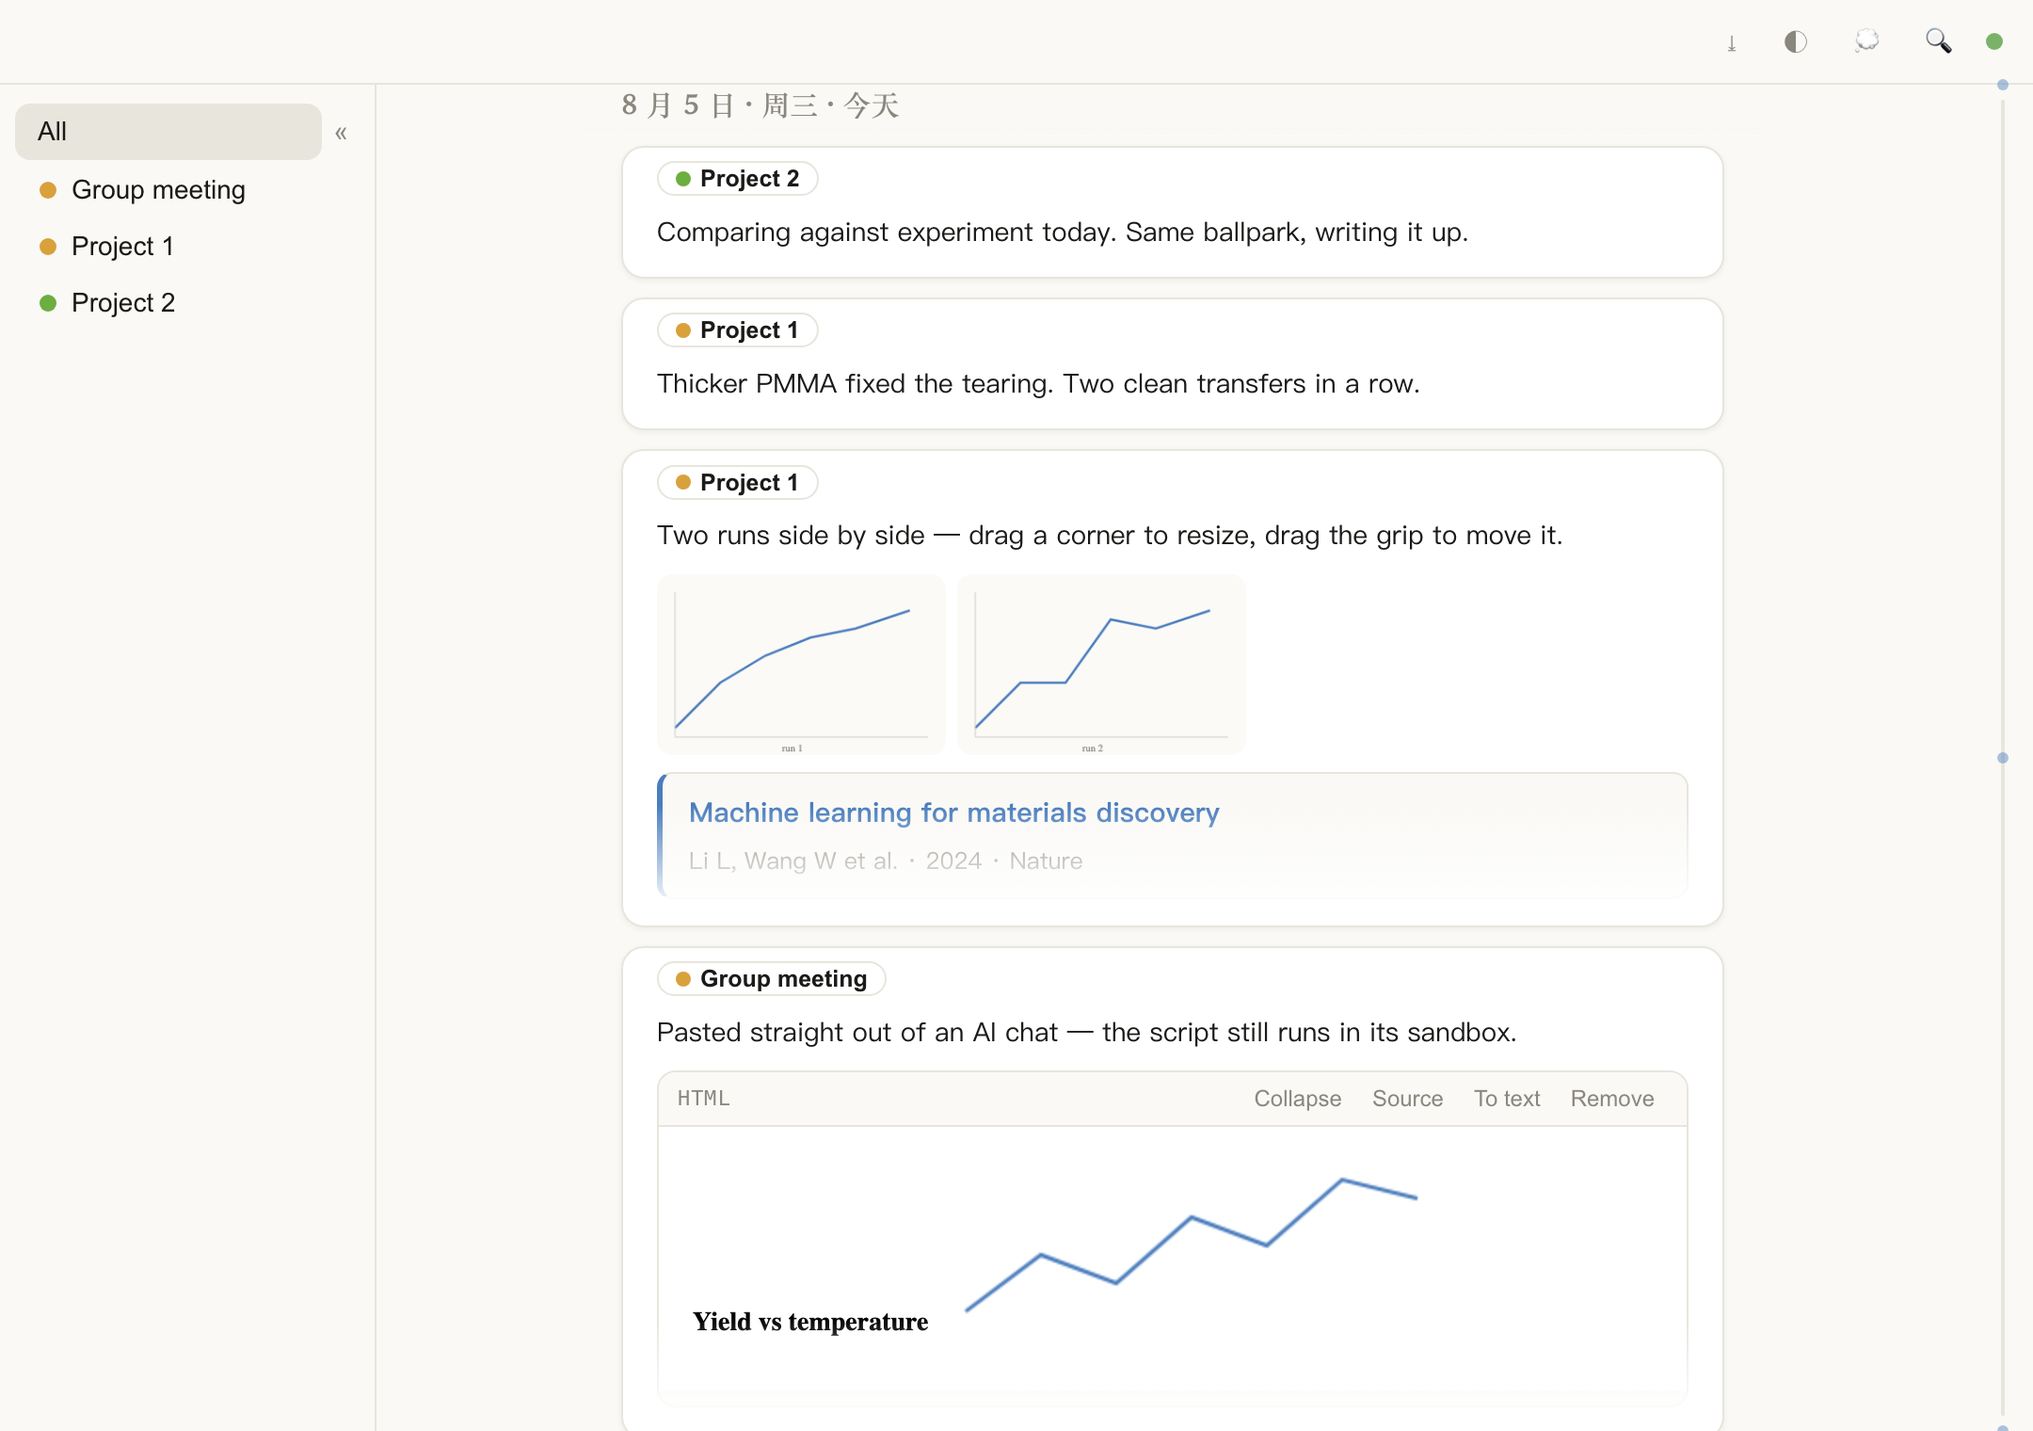
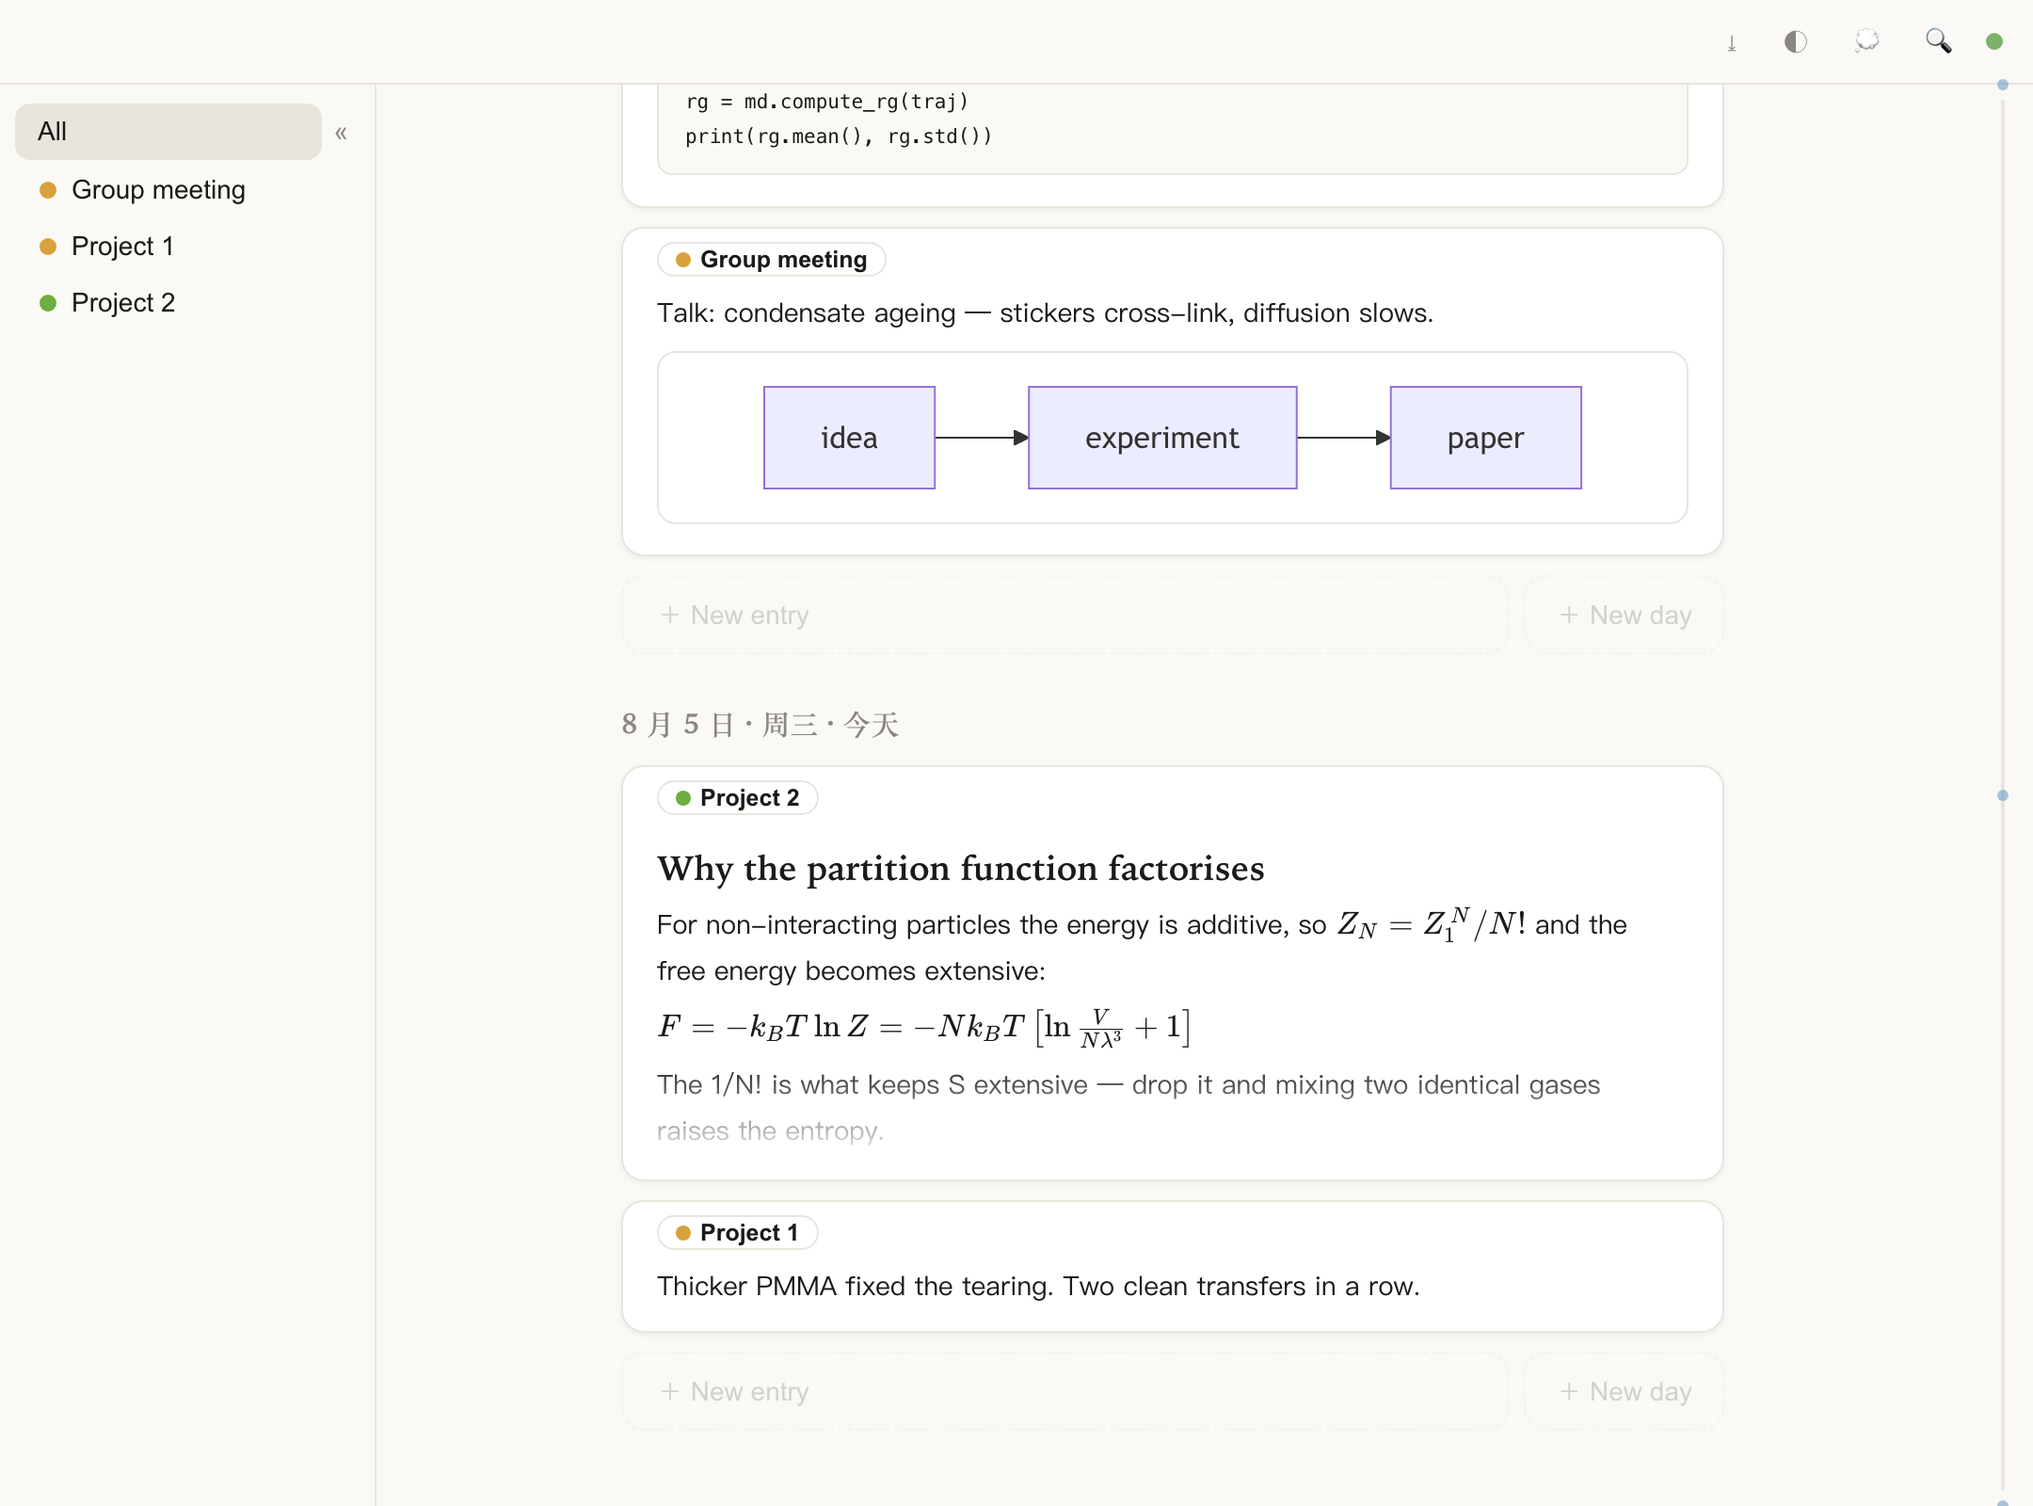
fix: note-only days stay visible; block maths renders; sidebar gains + and a colour wheel
- A day with a note but no cards never came back from /api/entries, so the note
  looked deleted although it was safely in the database. The day query now unions
  days that have a note; the client keeps such days when the last card is deleted
  and reads today's note instead of hardcoding an empty one.
- $$…$$ was silently broken: the extension's default regex reads it as an empty
  $ $ pair, so display equations leaked out as raw LaTeX. Both forms now match, and
  the inline form no longer swallows text like 'costs $5 and $7'.
- Sidebar: a + at the bottom creates a task, and the fixed ten swatches are replaced
  by a colour wheel — hue around, saturation toward the centre, a lightness slider
  and a hex field.
- Sample note rewritten as a statistical-mechanics entry so the screenshots show
  real formulas.

diff --git a/web/src/components/ColorWheel.tsx b/web/src/components/ColorWheel.tsx
@@ -1,0 +1,74 @@
+import { useRef, useState } from 'react'
+
+// 圆形调色盘：色相绕一圈，越靠圆心越淡。亮度用下面的细长条，也可以直接输 #rrggbb。
+// 盘面是两层 CSS 渐变叠出来的，取色靠极坐标算，不需要 canvas 或额外依赖。
+
+function hslToHex(h: number, s: number, l: number) {
+  const a = (s * Math.min(l, 1 - l)) / 100
+  const f = (n: number) => {
+    const k = (n + h / 30) % 12
+    const c = l / 100 - a * Math.max(-1, Math.min(k - 3, 9 - k, 1))
+    return Math.round(255 * c).toString(16).padStart(2, '0')
+  }
+  return `#${f(0)}${f(8)}${f(4)}`
+}
+
+export function ColorWheel({ value, onPick, onClose }: {
+  value: string
+  onPick: (hex: string) => void
+  onClose: () => void
+}) {
+  const [light, setLight] = useState(50)
+  const [hex, setHex] = useState(value)
+  const wheel = useRef<HTMLDivElement>(null)
+
+  function pickAt(e: React.PointerEvent) {
+    const r = wheel.current!.getBoundingClientRect()
+    const x = e.clientX - r.left - r.width / 2
+    const y = e.clientY - r.top - r.height / 2
+    const radius = r.width / 2
+    const dist = Math.min(Math.hypot(x, y) / radius, 1)
+    const hue = (Math.atan2(y, x) * 180) / Math.PI + 90
+    const c = hslToHex((hue + 360) % 360, Math.round(dist * 100), light)
+    setHex(c)
+    onPick(c)
+  }
+
+  return (
+    <div className="wheel-pop" onMouseLeave={onClose}>
+      <div className="wheel" ref={wheel}
+        onPointerDown={pickAt}
+        onPointerMove={e => { if (e.buttons) pickAt(e) }}
+        style={{ filter: `brightness(${(light / 50).toFixed(2)})` }} />
+
+      <input className="wheel-light" type="range" min={15} max={85} value={light}
+        title="Lightness"
+        onChange={e => {
+          const l = Number(e.target.value)
+          setLight(l)
+          // 保持当前色相与饱和度，只改亮度
+          const m = hex.match(/^#(\w{2})(\w{2})(\w{2})$/)
+          if (!m) return
+          const [r, g, b] = m.slice(1).map(v => parseInt(v, 16) / 255)
+          const max = Math.max(r, g, b), min = Math.min(r, g, b)
+          const d = max - min
+          let h = 0
+          if (d) {
+            h = max === r ? ((g - b) / d) % 6 : max === g ? (b - r) / d + 2 : (r - g) / d + 4
+            h *= 60
+          }
+          const s = d ? Math.round((d / (1 - Math.abs(max + min - 1))) * 100) : 0
+          const c = hslToHex((h + 360) % 360, s, l)
+          setHex(c)
+          onPick(c)
+        }} />
+
+      <input className="wheel-hex" value={hex} spellCheck={false} aria-label="Hex colour"
+        onChange={e => {
+          const v = e.target.value.trim()
+          setHex(v)
+          if (/^#[0-9a-fA-F]{6}$/.test(v)) onPick(v)
+        }} />
+    </div>
+  )
+}

diff --git a/web/src/styles.css b/web/src/styles.css
@@ -623,17 +623,45 @@ html { scrollbar-color: var(--border) transparent; }
 .side-dot i { width: 9px; height: 9px; border-radius: 50%; display: block; }
 .side-item .side-name { padding-left: 6px; }
 
-.color-pop {
+/* 边栏底部的新建任务按钮：平时几乎看不见，鼠标进边栏才显形 */
+.side-add {
+  margin: 6px 0 0 4px; width: 26px; height: 26px; border-radius: 50%;
+  border: 1px dashed var(--border); background: none; color: var(--muted);
+  cursor: pointer; font-size: 13px; line-height: 1;
+  opacity: 0; transition: opacity 0.15s, color 0.15s, border-color 0.15s;
+}
+.sidebar:hover .side-add { opacity: 1; }
+.side-add:hover { color: var(--accent); border-color: var(--accent); }
+
+/* 圆形调色盘：色相绕一圈，越靠圆心越淡；下面是亮度条和十六进制输入 */
+.wheel-pop {
   position: absolute; left: 26px; top: 100%; z-index: 30;
-  display: grid; grid-template-columns: repeat(5, 1fr); gap: 5px;
-  padding: 7px; background: var(--card); border: 1px solid var(--border);
-  border-radius: 10px; box-shadow: 0 6px 20px rgba(0, 0, 0, 0.16);
+  display: flex; flex-direction: column; gap: 8px; align-items: center;
+  padding: 10px; background: var(--card); border: 1px solid var(--border);
+  border-radius: 12px; box-shadow: 0 6px 20px rgba(0, 0, 0, 0.16);
 }
-.color-pop .swatch {
-  width: 16px; height: 16px; border-radius: 50%; cursor: pointer;
-  border: 2px solid transparent;
+.wheel {
+  width: 132px; height: 132px; border-radius: 50%; cursor: crosshair;
+  background:
+    radial-gradient(circle, #fff 0%, transparent 70%),
+    conic-gradient(from 90deg, #f00, #ff0, #0f0, #0ff, #00f, #f0f, #f00);
+  border: 1px solid var(--border);
 }
-.color-pop .swatch.on { border-color: var(--fg); }
+.wheel-light {
+  width: 132px; height: 4px; -webkit-appearance: none; appearance: none;
+  border-radius: 2px; background: linear-gradient(90deg, #000, #888, #fff);
+  cursor: pointer;
+}
+.wheel-light::-webkit-slider-thumb {
+  -webkit-appearance: none; width: 12px; height: 12px; border-radius: 50%;
+  background: var(--card); border: 1px solid var(--muted); cursor: pointer;
+}
+.wheel-hex {
+  width: 132px; text-align: center; font-family: var(--mono); font-size: 12px;
+  padding: 4px; border: 1px solid var(--border); border-radius: 6px;
+  background: var(--bg); color: var(--fg); outline: none;
+}
+.wheel-hex:focus { border-color: var(--accent); }
 
 
 /* ---------- 确认弹窗（与卡片同质感） ---------- */

diff --git a/web/src/components/Sidebar.tsx b/web/src/components/Sidebar.tsx
@@ -1,15 +1,10 @@
 import { useEffect, useRef, useState } from 'react'
 import { api } from '../api'
+import { ColorWheel } from './ColorWheel'
 
 export interface Project {
   id: string; name: string; color: string; archived: number; position?: number
 }
-
-// 任务配色盘：与服务端 entries.js 的 PALETTE 一致，另加几个中性色
-const SWATCHES = [
-  '#e05252', '#e08d52', '#d9a13b', '#6cae3f', '#3fae8c',
-  '#4a90d9', '#7a6fd9', '#c45fb8', '#8a877e', '#5b6b7a',
-]
 
 export function Sidebar({ active, onSelect, refreshKey }: {
   active: string | null
@@ -36,8 +31,17 @@ export function Sidebar({ active, onSelect, refreshKey }: {
 
   async function setColor(id: string, color: string) {
     setProjects(ps => ps.map(p => p.id === id ? { ...p, color } : p))   // 先变色，不等网络
-    setPickerFor(null)
     await api(`/api/projects/${id}`, { method: 'PATCH', body: JSON.stringify({ color }) })
+  }
+
+  // 新任务：建一张空卡片带上这个任务名，任务就出现了
+  async function addTask() {
+    const name = window.prompt('New task name')?.trim()
+    if (!name) return
+    await api('/api/entries', { method: 'POST', body: JSON.stringify({ task: name }) })
+    const list = await api<Project[]>('/api/projects')
+    setProjects(list)
+    onSelect(list.find(p => p.name === name)?.id ?? null)
   }
 
   // 拖动排序：把被拖的那个插到目标位置，整份新顺序提交给服务端
@@ -98,16 +102,13 @@ export function Sidebar({ active, onSelect, refreshKey }: {
             onClick={() => archive(p.id)}>⌫</button>
 
           {pickerFor === p.id && (
-            <div className="color-pop" onMouseLeave={() => setPickerFor(null)}>
-              {SWATCHES.map(c => (
-                <button key={c} className={`swatch ${c === p.color ? 'on' : ''}`}
-                  style={{ background: c }} title={c}
-                  onClick={() => setColor(p.id, c)} />
-              ))}
-            </div>
+            <ColorWheel value={p.color} onPick={c => setColor(p.id, c)}
+              onClose={() => setPickerFor(null)} />
           )}
         </div>
       ))}
+
+      <button className="side-add" title="New task" onClick={addTask}>＋</button>
     </nav>
   )
 }

diff --git a/server/test/list.test.js b/server/test/list.test.js
@@ -67,3 +67,43 @@ describe('entries list', () => {
     expect(j).toEqual([{ day: '2026-07-01', count: 2 }, { day: '2026-07-03', count: 1 }])
   })
 })
+
+describe('只有碎碎念、没有卡片的日子', () => {
+  it('照样出现在时间流里（否则那句话再也看不到）', async () => {
+    await app.request('/api/day-notes/2026-07-01', {
+      method: 'PUT', headers: H(), body: JSON.stringify({ text: '今天只留一句话' }),
+    })
+    const j = await (await app.request('/api/entries?limit=50', { headers: H() })).json()
+    const day = j.days.find(d => d.day === '2026-07-01')
+    expect(day).toBeTruthy()
+    expect(day.note).toBe('今天只留一句话')
+    expect(day.entries).toEqual([])
+  })
+
+  it('删掉当天最后一张卡片，碎碎念仍在', async () => {
+    const e = await seed('2026-07-02', '唯一一张卡片')
+    await app.request('/api/day-notes/2026-07-02', {
+      method: 'PUT', headers: H(), body: JSON.stringify({ text: '别把我一起删了' }),
+    })
+    await app.request(`/api/entries/${e.id}`, { method: 'DELETE', headers: H() })
+    const j = await (await app.request('/api/entries?limit=50', { headers: H() })).json()
+    expect(j.days.find(d => d.day === '2026-07-02')?.note).toBe('别把我一起删了')
+  })
+
+  it('空白碎碎念不会凭空造出一天', async () => {
+    await app.request('/api/day-notes/2026-07-03', {
+      method: 'PUT', headers: H(), body: JSON.stringify({ text: '   ' }),
+    })
+    const j = await (await app.request('/api/entries?limit=50', { headers: H() })).json()
+    expect(j.days.some(d => d.day === '2026-07-03')).toBe(false)
+  })
+
+  it('before 翻页时也照样带上这种日子', async () => {
+    await seed('2026-07-20', '较新的一条')
+    await app.request('/api/day-notes/2026-07-10', {
+      method: 'PUT', headers: H(), body: JSON.stringify({ text: '更早的一句话' }),
+    })
+    const j = await (await app.request('/api/entries?limit=50&before=2026-07-15', { headers: H() })).json()
+    expect(j.days.some(d => d.day === '2026-07-10')).toBe(true)
+  })
+})

diff --git a/server/src/entries.js b/server/src/entries.js
@@ -77,16 +77,31 @@ export function entriesRoutes(app, db) {
     }
 
     const taskCond = project ? 'AND e.task_id = ?' : ''
-    const p1 = project ? [project] : []
     let dayCond = ''
-    if (before) { dayCond = 'AND e.day < ?'; p1.push(before) }
-    if (after) { dayCond = 'AND e.day > ?'; p1.push(after) }
-    p1.push(limit)
+    let dayArg = null
+    if (before) { dayCond = 'AND e.day < ?'; dayArg = before }
+    if (after) { dayCond = 'AND e.day > ?'; dayArg = after }
     const order = after ? 'ASC' : 'DESC'
+
+    // 只写了碎碎念、还没有卡片的日子也要出现，否则那句话再也显示不出来。
+    // 按任务筛选时不并入：那种视图看的是任务，不是某一天。
+    const noteCond = dayCond.replace('e.day', 'n.day')
+    const noteDays = project ? '' :
+      `UNION SELECT n.day FROM day_notes n WHERE TRIM(n.text) <> '' ${noteCond}`
+
+    const args = [
+      ...(project ? [project] : []),      // entries 分支的 task_id
+      ...(dayArg ? [dayArg] : []),        // entries 分支的 before/after
+      ...(project ? [] : dayArg ? [dayArg] : []),   // day_notes 分支的 before/after
+      limit,
+    ]
     const days = db.prepare(`
-      SELECT DISTINCT e.day FROM entries e
-      WHERE e.deleted_at IS NULL ${taskCond} ${dayCond} ORDER BY e.day ${order} LIMIT ?
-    `).all(...p1).map(r => r.day)
+      SELECT day FROM (
+        SELECT DISTINCT e.day AS day FROM entries e
+        WHERE e.deleted_at IS NULL ${taskCond} ${dayCond}
+        ${noteDays}
+      ) ORDER BY day ${order} LIMIT ?
+    `).all(...args).map(r => r.day)
     days.sort().reverse()   // 统一为降序输出
     const rows = days.length ? db.prepare(`
       SELECT e.* FROM entries e

diff --git a/server/src/welcome.js b/server/src/welcome.js
@@ -118,7 +118,12 @@ export const SAMPLE_CARDS = [
     { type: 'mermaidBlock', attrs: { code: 'graph LR\n  idea --> experiment\n  experiment --> paper' } },
   )],
   [0, 'Project 2', doc(
-    p('Comparing against experiment today. Same ballpark, writing it up.'),
+    h2('Why the partition function factorises'),
+    line(plain('For non-interacting particles the energy is additive, so '),
+         plain('$Z_N = Z_1^{\\,N}/N!$'),
+         plain(' and the free energy becomes extensive:')),
+    p('$$F = -k_B T \\ln Z = -N k_B T \\left[\\ln\\frac{V}{N\\lambda^3} + 1\\right]$$'),
+    p('The 1/N! is what keeps S extensive — drop it and mixing two identical gases raises the entropy.'),
   )],
   [0, 'Project 1', doc(
     p('Thicker PMMA fixed the tearing. Two clean transfers in a row.'),

diff --git a/web/test/editor.test.ts b/web/test/editor.test.ts
@@ -24,3 +24,18 @@ describe('buildExtensions', () => {
     }
   })
 })
+
+describe('公式渲染', () => {
+  it('$$…$$ 与 $…$ 都能被识别（默认正则只认后者，块级公式会漏成源码）', () => {
+    const math = buildExtensions({}).find(e => e.name === 'Mathematics')!
+    const re: RegExp = (math.options as { regex: RegExp }).regex
+    const grab = (t: string) => {
+      re.lastIndex = 0
+      return [...t.matchAll(re)].map(m => m[1] ?? m[2])
+    }
+    expect(grab('$$F = -k_B T \\ln Z$$')).toEqual(['F = -k_B T \\ln Z'])
+    expect(grab('inline $E=mc^2$ here')).toEqual(['E=mc^2'])
+    expect(grab('$a$ and $b$')).toEqual(['a', 'b'])
+    expect(grab('costs $5 and $7')).toEqual([])   // 不该把价格当公式
+  })
+})

diff --git a/web/src/components/Timeline.tsx b/web/src/components/Timeline.tsx
@@ -156,7 +156,7 @@ export function Timeline({ project, anchor, tasks, showAsides, onExitAnchor, onT
       {t.hasNewer && <button className="load-newer" onClick={() => t.loadNewer()}>Load newer ↓</button>}
       {showToday && !hasTodayGroup && (
         <section data-day={today}>
-          <DayHeader day={today} note="" showAsides={showAsides}
+          <DayHeader day={today} note={t.days.find(d => d.day === today)?.note ?? ''} showAsides={showAsides}
             onNoteSaved={(day, text) => t.applyNote(day, text)} />
           <div className="day-cards">
             {(composers[today] ?? []).map(key => (

diff --git a/web/src/hooks/useTimeline.ts b/web/src/hooks/useTimeline.ts
@@ -81,8 +81,9 @@ export function useTimeline(project: string | null, anchor: string | null) {
   }, [])
 
   const removeEntry = useCallback((id: string) => {
+    // 留下只剩碎碎念的日子，否则删掉最后一张卡片会把那句话一起带走
     setDays(cur => cur.map(d => ({ ...d, entries: d.entries.filter(e => e.id !== id) }))
-      .filter(d => d.entries.length > 0))
+      .filter(d => d.entries.length > 0 || d.note?.trim()))
   }, [])
 
   // 为还没有任何条目的日期插一个空分组，让它先在时间流里占好位置

diff --git a/web/src/editor/extensions.ts b/web/src/editor/extensions.ts
@@ -61,7 +61,12 @@ export function buildExtensions(opts: ExtensionOpts) {
     TableRow,
     TableHeader,
     TableCell,
-    Mathematics,
+    // 默认正则是 /\$([^$]*)\$/，会把 $$…$$ 读成一对空的 $ $，
+    // 块级公式因此整段漏成源码。改成两种都吃，$$ 的那一版走 KaTeX 的 display 模式。
+    Mathematics.configure({
+      regex: /\$\$([^$]+)\$\$|\$(?!\s)([^$\n]*[^$\s])\$/g,
+      katexOptions: { throwOnError: false },
+    }),
     CitationNode,
     ResizableImage,
     MermaidBlock,
